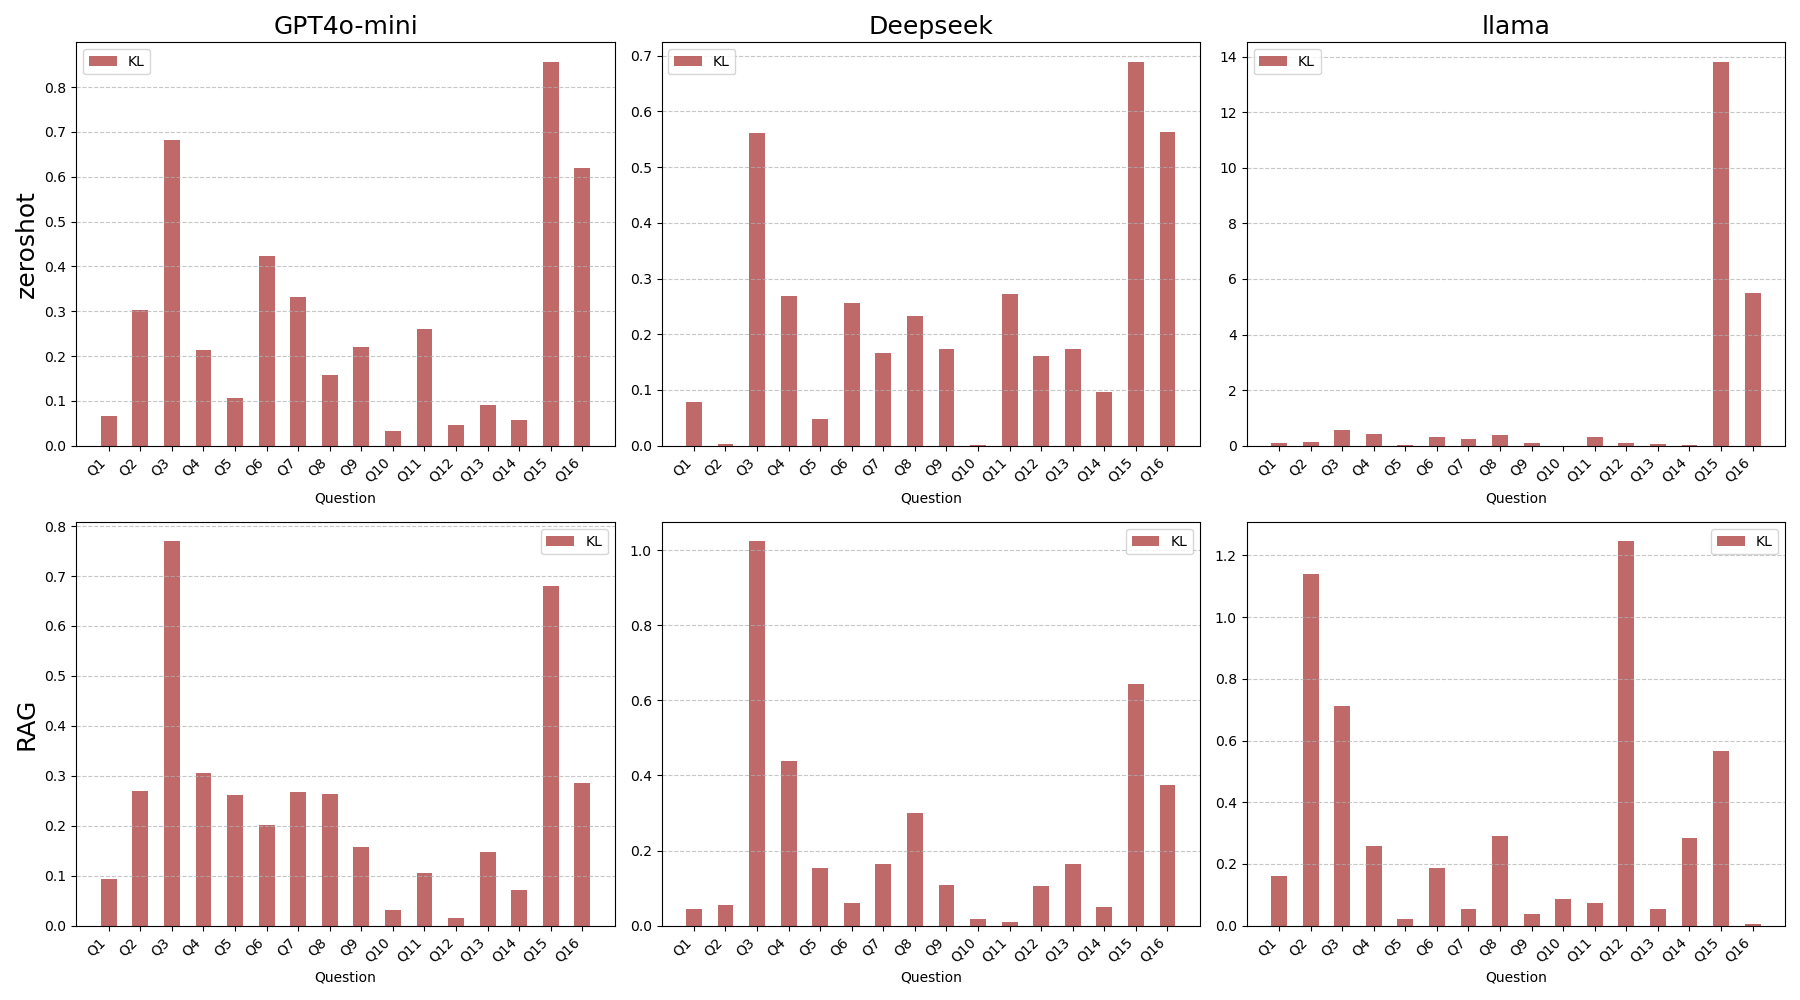
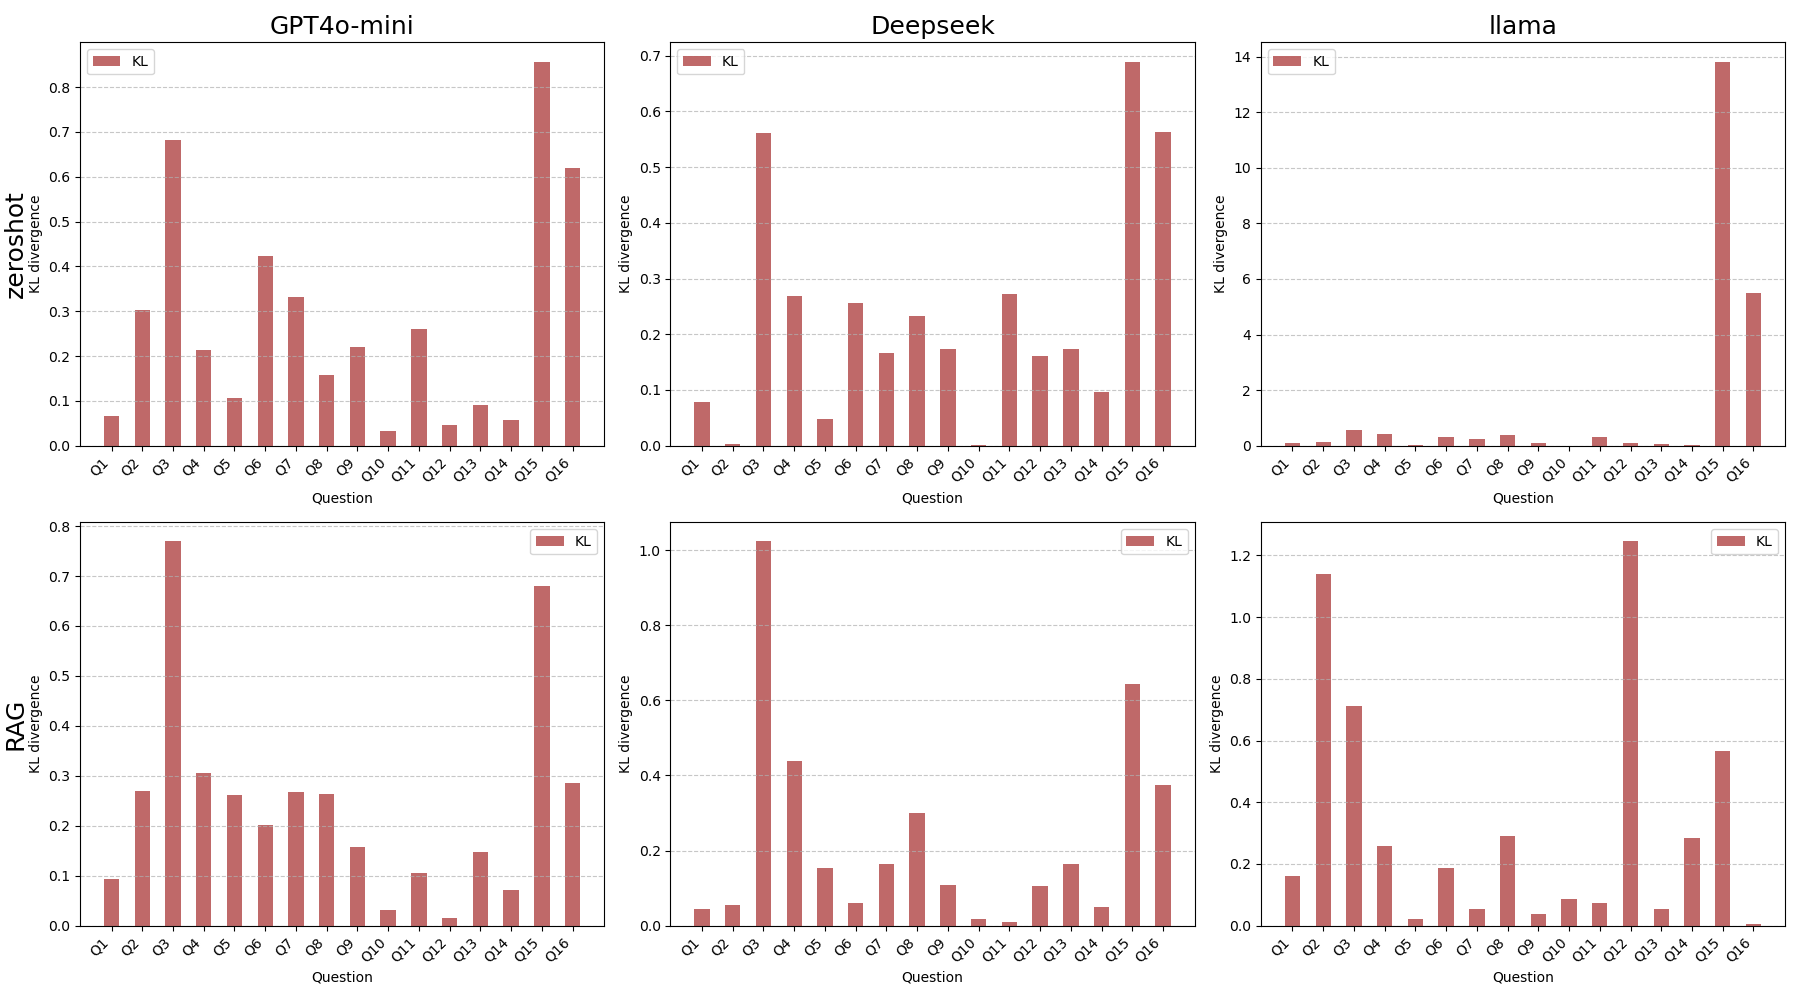
final

diff --git a/src/analysis.py b/src/analysis.py
@@ -162,18 +162,9 @@ def plot_statistical_tests(results_df):
     plt.show()
 
 def plot_distribution_for_qname(q_label, qname, real_distribution, model_distributions, model_order=None, save_dir="../results"):
-    """
-    参数：
-      - qname: 问题名称，用于图表标题与文件名
-      - real_distribution: pd.Series，人类回答分布（索引为选项，值为频率）
-      - model_distributions: dict，键为模型名称，值为该模型的回答分布（pd.Series）
-      - model_order: 指定显示顺序，若为 None 则按字典顺序显示
-      - save_dir: 保存图片的目录
-    """
     if model_order is None:
         model_order = list(model_distributions.keys())
     
-    # 统一所有出现过的选项（并集），对缺失选项补 0
     all_options = set(real_distribution.index)
     for dist in model_distributions.values():
         all_options = all_options.union(dist.index)
@@ -190,14 +181,12 @@ def plot_distribution_for_qname(q_label, qname, real_distribution, model_distrib
     
     fig, ax = plt.subplots(figsize=(10, 6))
     x = np.arange(len(all_options))
-    total_groups = len(model_order) + 1  # 人类 + 各模型
+    total_groups = len(model_order) + 1  
     bar_width = 0.8 / total_groups
-    offset = - (total_groups - 1) / 2 * bar_width  # 使所有柱子居中显示
+    offset = - (total_groups - 1) / 2 * bar_width 
 
-    # 绘制人类分布（蓝色）
     ax.bar(x + offset, human_dist.values, bar_width, label="Human", color="blue", alpha=0.7)
     
-    # 绘制各模型分布
     for i, m in enumerate(model_order):
         current_offset = offset + (i + 1) * bar_width
         ax.bar(x + current_offset, model_dist_filled[m].values, bar_width, label=m, alpha=0.7)
@@ -219,20 +208,15 @@ def plot_distribution_for_qname(q_label, qname, real_distribution, model_distrib
 
 
 def plot_all_qname_distributions(qname_dists, save_dir="../results"):
-    """
-    遍历 qname_dists 中保存的每个 qname 的分布数据，绘制合并图。
-    qname_dists 的结构为：
-      { qname: { "human": pd.Series, "models": { model_name: pd.Series, ... } }, ... }
-    """
+
     qnames_options=[]
     for idx, (qname, dist_data) in enumerate(qname_dists.items(), start=1):
         model_distributions = dist_data.get("models", {})
         if not model_distributions:
             continue
-        # 可选：指定模型显示顺序
         model_order = ["zeroshot_gpt", "zeroshot_deepseek", "zeroshot_llama",
                        "RAG_gpt", "RAG_deepseek", "RAG_llama"]
-        # 保留已有的模型
+
         model_order = [m for m in model_order if m in model_distributions]
         options=plot_distribution_for_qname(f"Q{idx}", qname, dist_data["human"], model_distributions, model_order, save_dir=save_dir)
         qnames_options.append({
@@ -262,7 +246,7 @@ def plot_all_qname_distributions(qname_dists, save_dir="../results"):
         writer.writerows(question_rows)
     print(f"Saved question mapping CSV at: {question_csv}")
 
-    # 保存选项映射 CSV
+
     choice_csv = os.path.join(save_dir, "choice_map.csv")
     with open(choice_csv, mode="w", encoding="utf-8", newline="") as f:
         writer = csv.writer(f)
@@ -271,41 +255,30 @@ def plot_all_qname_distributions(qname_dists, save_dir="../results"):
     print(f"Saved choice mapping CSV at: {choice_csv}")
 
 def compare_distributions_multiple_models(public_path, model_csv_paths):
-    """
-    参数：
-    -------
-    public_path : str
-        人类答案CSV文件的路径
-    model_csv_paths : dict
-        键为模型名称(如 'zeroshot_gpt')，值为对应CSV文件路径
-    """
+
     real_df = pd.read_csv(public_path, encoding="utf-8", low_memory=False)
     
     results = []
     qname_dists = {}
-    
-    # 遍历不同模型+prompt的CSV文件
+
     for model_name, csv_path in model_csv_paths.items():
         simulated_df = pd.read_csv(os.path.join('../results',csv_path), encoding="utf-8", low_memory=False)
         
-        # 遍历问题 qname
+
         for qname in tqdm(simulated_df["qname"].unique(), desc=f"Comparing distributions for {model_name}"):
             if qname in real_df.columns:
                 real_data = real_df[qname].dropna()
                 sim_data = simulated_df[simulated_df["qname"] == qname]["response"].dropna()
 
-                # 1) 在每个qname中随机只读取1000份答案
                 if len(sim_data) > 1000:
                     sim_data = sim_data.sample(n=1000, random_state=42)
 
-                # 只保留两者共有的选项，防止出现无效选项
                 valid_options = set(real_data.unique())
                 sim_data = sim_data[sim_data.isin(valid_options)]
 
                 if real_data.empty or sim_data.empty:
                     continue
 
-                # 计算分布
                 real_distribution = real_data.value_counts(normalize=True).sort_index()
                 sim_distribution = sim_data.value_counts(normalize=True).sort_index()
 
@@ -313,17 +286,14 @@ def compare_distributions_multiple_models(public_path, model_csv_paths):
                     qname_dists[qname] = {"human": real_distribution, "models": {}}
                 qname_dists[qname]["models"][model_name] = sim_distribution
 
-                # 统计检验
                 chi2_stat, chi2_p = chi_square_test(real_distribution, sim_distribution)
                 ks_stat, ks_p = ks_test(real_distribution, sim_distribution)
 
-                # 多样性指数
                 shannon_real = shannon_diversity(real_distribution)
                 shannon_sim = shannon_diversity(sim_distribution)
                 simpson_real = simpson_index(real_distribution)
                 simpson_sim = simpson_index(sim_distribution)
 
-                # KL 散度
                 kl_div = kl_divergence(real_distribution, sim_distribution)
 
                 results.append({
@@ -341,35 +311,21 @@ def compare_distributions_multiple_models(public_path, model_csv_paths):
                 })
 
     results_df = pd.DataFrame(results)
-    # 绘图
+
     plot_statistical_tests_multiple_models(results_df)
     plot_all_qname_distributions(qname_dists, save_dir="../results/distribution")
 
 
 def plot_statistical_tests_multiple_models(results_df):
-    """
-    生成 5 张图：
-      1) Chi-square(stat+p) -> chi-square.png
-      2) KS(stat+p) -> ks.png
-      3) Shannon(对比人类 vs LLM) -> shannon.png
-      4) Simpson(对比人类 vs LLM) -> simpson.png
-      5) KL Divergence -> kl.png
-    
-    其中每张图是2行x3列的子图，行首标注zeroshot/RAG，列顶标注gpt/deepseek/llama
-    去掉每个子图内的模型名标题。
-    """
 
-    # 2) 行首和列顶标签
     row_labels = ["zeroshot", "RAG"]
     col_labels = ["GPT4o-mini", "Deepseek", "llama"]
 
-    # 需要保证 models_in_order 的顺序与行列标签对应
     models_in_order = [
         "zeroshot_gpt", "zeroshot_deepseek", "zeroshot_llama",
         "RAG_gpt", "RAG_deepseek", "RAG_llama"
     ]
 
-    # 为了绘制更简洁，定义一个辅助函数：
     def get_row_col_axes(nrows=2, ncols=3, figsize=(18,10)):
         fig, axes = plt.subplots(nrows, ncols, figsize=figsize, sharey=False)
         return fig, axes
@@ -385,10 +341,12 @@ def plot_statistical_tests_multiple_models(results_df):
         col_idx = i % 3
         ax = axes_chi[row_idx, col_idx]
 
-        # 行首标注
         if col_idx == 0:
-            ax.set_ylabel(row_labels[row_idx], fontsize=18)
-        # 列顶标注
+            ax.annotate(row_labels[row_idx], 
+                        xy=(-0.1, 0.5), xycoords='axes fraction',  
+                        fontsize=18, ha="right", va="center",
+                        rotation=90)
+
         if row_idx == 0:
             ax.set_title(col_labels[col_idx], fontsize=18)
 
@@ -400,7 +358,7 @@ def plot_statistical_tests_multiple_models(results_df):
         ax.set_xticks(x)
         ax.set_xticklabels(labels, rotation=45, ha="right")
         ax.set_xlabel("Question")
-        ax.set_ylabel("p-value")       # 改成 p-value
+        ax.set_ylabel("p-value")      
         ax.grid(axis="y", linestyle="--", alpha=0.7)
 
     plt.tight_layout()
@@ -418,7 +376,10 @@ def plot_statistical_tests_multiple_models(results_df):
         ax = axes_ks[row_idx, col_idx]
 
         if col_idx == 0:
-            ax.set_ylabel(row_labels[row_idx], fontsize=18)
+            ax.annotate(row_labels[row_idx], 
+                        xy=(-0.1, 0.5), xycoords='axes fraction',  
+                        fontsize=18, ha="right", va="center",
+                        rotation=90)
         if row_idx == 0:
             ax.set_title(col_labels[col_idx], fontsize=18)
 
@@ -448,7 +409,10 @@ def plot_statistical_tests_multiple_models(results_df):
         ax = axes_shannon[row_idx, col_idx]
 
         if col_idx == 0:
-            ax.set_ylabel(row_labels[row_idx], fontsize=18)
+            ax.annotate(row_labels[row_idx], 
+                        xy=(-0.1, 0.5), xycoords='axes fraction', 
+                        fontsize=18, ha="right", va="center",
+                        rotation=90)
         if row_idx == 0:
             ax.set_title(col_labels[col_idx], fontsize=18)
 
@@ -460,6 +424,7 @@ def plot_statistical_tests_multiple_models(results_df):
         ax.set_xticks(x)
         ax.set_xticklabels(labels, rotation=45, ha="right")
         ax.set_xlabel("Question")
+        ax.set_ylabel("Shannon Index")
         ax.legend()
         ax.grid(axis="y", linestyle="--", alpha=0.7)
 
@@ -478,7 +443,10 @@ def plot_statistical_tests_multiple_models(results_df):
         ax = axes_simpson[row_idx, col_idx]
 
         if col_idx == 0:
-            ax.set_ylabel(row_labels[row_idx], fontsize=18)
+            ax.annotate(row_labels[row_idx], 
+                        xy=(-0.1, 0.5), xycoords='axes fraction',  
+                        fontsize=18, ha="right", va="center",
+                        rotation=90)
         if row_idx == 0:
             ax.set_title(col_labels[col_idx], fontsize=18)
 
@@ -490,6 +458,7 @@ def plot_statistical_tests_multiple_models(results_df):
         ax.set_xticks(x)
         ax.set_xticklabels(labels, rotation=45, ha="right")
         ax.set_xlabel("Question")
+        ax.set_ylabel("Simpson Index")
         ax.legend()
         ax.grid(axis="y", linestyle="--", alpha=0.7)
 
@@ -509,7 +478,10 @@ def plot_statistical_tests_multiple_models(results_df):
         ax = axes_kl[row_idx, col_idx]
 
         if col_idx == 0:
-            ax.set_ylabel(row_labels[row_idx], fontsize=18)
+            ax.annotate(row_labels[row_idx], 
+                        xy=(-0.1, 0.5), xycoords='axes fraction',  
+                        fontsize=18, ha="right", va="center",
+                        rotation=90)
         if row_idx == 0:
             ax.set_title(col_labels[col_idx], fontsize=18)
 
@@ -520,8 +492,34 @@ def plot_statistical_tests_multiple_models(results_df):
         ax.set_xticks(x)
         ax.set_xticklabels(labels, rotation=45, ha="right")
         ax.set_xlabel("Question")
+        ax.set_ylabel("KL divergence")
         ax.legend()
         ax.grid(axis="y", linestyle="--", alpha=0.7)
 
     plt.tight_layout()
     plt.savefig("../results/kl.png")
+
+    metrics = ["chi2_p", "ks_p", "kl_divergence"]
+
+    desc_stats = results_df.groupby("model_name")[metrics].agg(["mean", "min", "max", "std"]).reset_index()
+
+
+    desc_stats.columns = ["_".join(col).rstrip("_") for col in desc_stats.columns.values]
+
+    summary_csv = "../results/summary_stats.csv"
+    desc_stats.to_csv(summary_csv, index=False, encoding="utf-8")
+    print(f"Saved summary stats CSV at: {summary_csv}")
+
+    shannon_metrics = ["shannon_real", "shannon_sim"]
+    desc_shannon = results_df.groupby("model_name")[shannon_metrics].agg(["mean", "min", "max", "std"]).reset_index()
+    desc_shannon.columns = ["_".join(col).rstrip("_") for col in desc_shannon.columns.values]
+    shannon_csv = "../results/summary_stats_shannon.csv"
+    desc_shannon.to_csv(shannon_csv, index=False, encoding="utf-8")
+    print(f"Saved summary shannon CSV at: {shannon_csv}")
+
+    simpson_metrics = ["simpson_real", "simpson_sim"]
+    desc_simpson = results_df.groupby("model_name")[simpson_metrics].agg(["mean", "min", "max", "std"]).reset_index()
+    desc_simpson.columns = ["_".join(col).rstrip("_") for col in desc_simpson.columns.values]
+    simpson_csv = "../results/summary_stats_simpson.csv"
+    desc_simpson.to_csv(simpson_csv, index=False, encoding="utf-8")
+    print(f"Saved summary simpson CSV at: {simpson_csv}")

diff --git a/src/test.py b/src/test.py
@@ -3,6 +3,7 @@ import pandas as pd
 import numpy as np
 from scipy import stats
 from scipy.special import rel_entr
+from scipy.stats import ks_2samp
 
 def chi_square_test(real_distribution, sim_distribution):
     """Perform Chi-square test of independence between real and simulated responses."""
